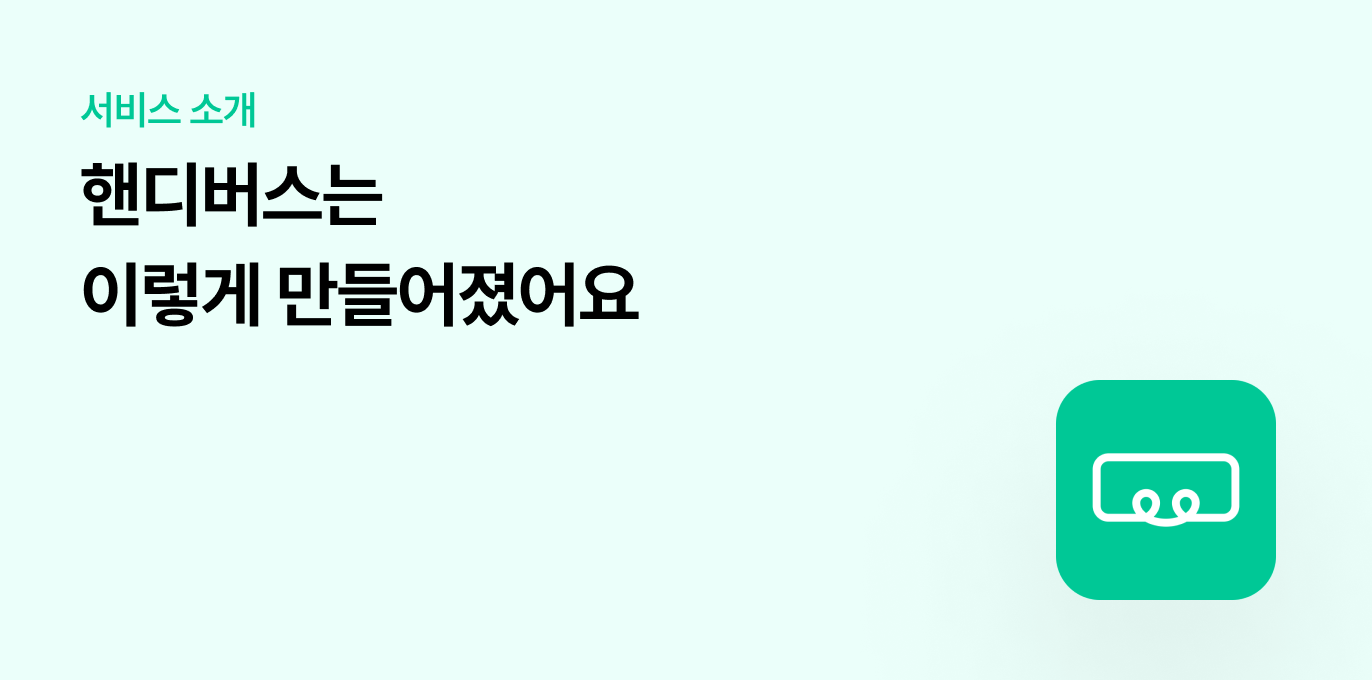
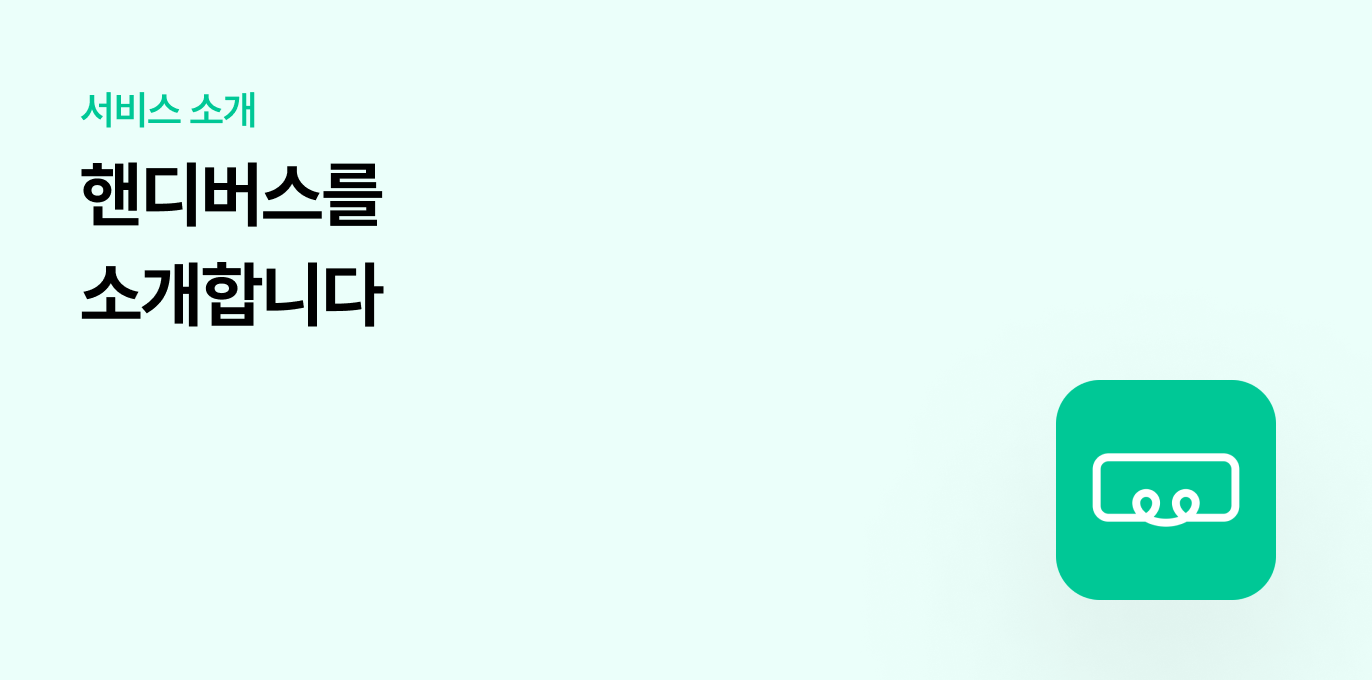
fix: 이용절차페이지 업데이트 및 홈페이지 하단 핸디버스 소개 배너 변경

Changed region(s): [[0.0612, 0.3706, 0.4592, 0.4941], [0.2143, 0.2162, 0.2755, 0.3397]]

diff --git a/src/app/help/how-to/page.tsx b/src/app/help/how-to/page.tsx
@@ -3,6 +3,7 @@ import Article from '@/components/article/Article';
 import HowTo from './images/how-to.png';
 import { Metadata } from 'next';
 import Header from '@/components/header/Header';
+import Link from 'next/link';
 
 export const metadata: Metadata = {
   title: '서비스 이용 절차',
@@ -39,16 +40,16 @@ const HowToPage = () => {
             <ul className="list-outside list-disc pl-[22px] text-16 font-500 text-grey-600-sub">
               <li>
                 <p className="py-[2px]">
-                  보통 콘서트 선예매 당일까지 수요를 살펴봐요
+                  선예매 다음날부터 탑승 14일 전까지의 수요를 살펴봐요.
                 </p>
               </li>
               <li>
                 <p className="py-[2px]">
-                  많은 분들이 원하시면 더 빨리 노선을 확정해요
+                  요청이 많은 지역일수록 더 빠르게 노선이 개설돼요.
                 </p>
               </li>
               <li>
-                <p className="py-[2px]">수요 신청은 무료예요!</p>
+                <p className="py-[2px]">수요 신청은 무료로 참여할 수 있어요!</p>
               </li>
             </ul>
           </li>
@@ -61,7 +62,15 @@ const HowToPage = () => {
         <ul className="mt-12 list-outside list-disc px-16 pl-[34px] text-16 font-500 leading-[26px] text-grey-900">
           <li>
             <p className="py-[2px]">
-              충분한 수요가 모이면 노선 운행을 확정해요
+              충분한 수요가 모인 지역은 노선 운행을 확정해요.
+            </p>
+          </li>
+          <li>
+            <p className="py-[2px]">확정된 노선은 무산 없이 100% 운행돼요!</p>
+          </li>
+          <li>
+            <p className="py-[2px]">
+              수요조사에 참여하신 지역에서 운행이 결정되면, 알림톡을 보내드려요.
             </p>
           </li>
         </ul>
@@ -77,18 +86,29 @@ const HowToPage = () => {
             </p>
           </li>
           <li>
-            <p className="py-[2px]">차량과 셔틀 정보는 알림톡으로 알려드려요</p>
+            <p className="py-[2px]">예약은 행사 4일 전에 마감돼요.</p>
           </li>
           <li>
             <p className="py-[2px]">
-              &apos;핸디&apos;가 오픈채팅방을 만들어 소통해요
+              셔틀 관련 정보는 추후 알림톡으로 안내드려요.
+            </p>
+          </li>
+          <li>
+            <p className="py-[2px]">
+              &apos;핸디&apos;에 지원하면 셔틀비의 50%를 지원받을 수 있어요!
             </p>
           </li>
           <ul className="list-outside list-disc pl-[22px] text-16 font-500 text-grey-600-sub">
             <li>
               <p className="py-[2px]">
-                콘서트 당일, 오픈채팅방에서 함께 이야기 나누며 즐거운 시간
-                보내세요!
+                &apos;핸디&apos;에 대한 설명은{' '}
+                <Link
+                  href="/help/what-is-handy"
+                  className="text-blue-600 underline hover:text-blue-400"
+                >
+                  여기
+                </Link>
+                에서 확인할 수 있어요.
               </p>
             </li>
           </ul>

diff --git a/src/app/(home)/@bot/components/Overviews.tsx b/src/app/(home)/@bot/components/Overviews.tsx
@@ -84,7 +84,7 @@ const Cards: OverviewCardItem[] = [
   {
     key: 2,
     title: '핸디버스 소개',
-    description: '핸디버스는 아이돌 콘서트 전문 셔틀 플랫폼입니다.',
+    description: '핸디버스는 공연/행사 전문 셔틀 플랫폼입니다.',
     image: CardImage2,
     link: '/help/about',
   },
